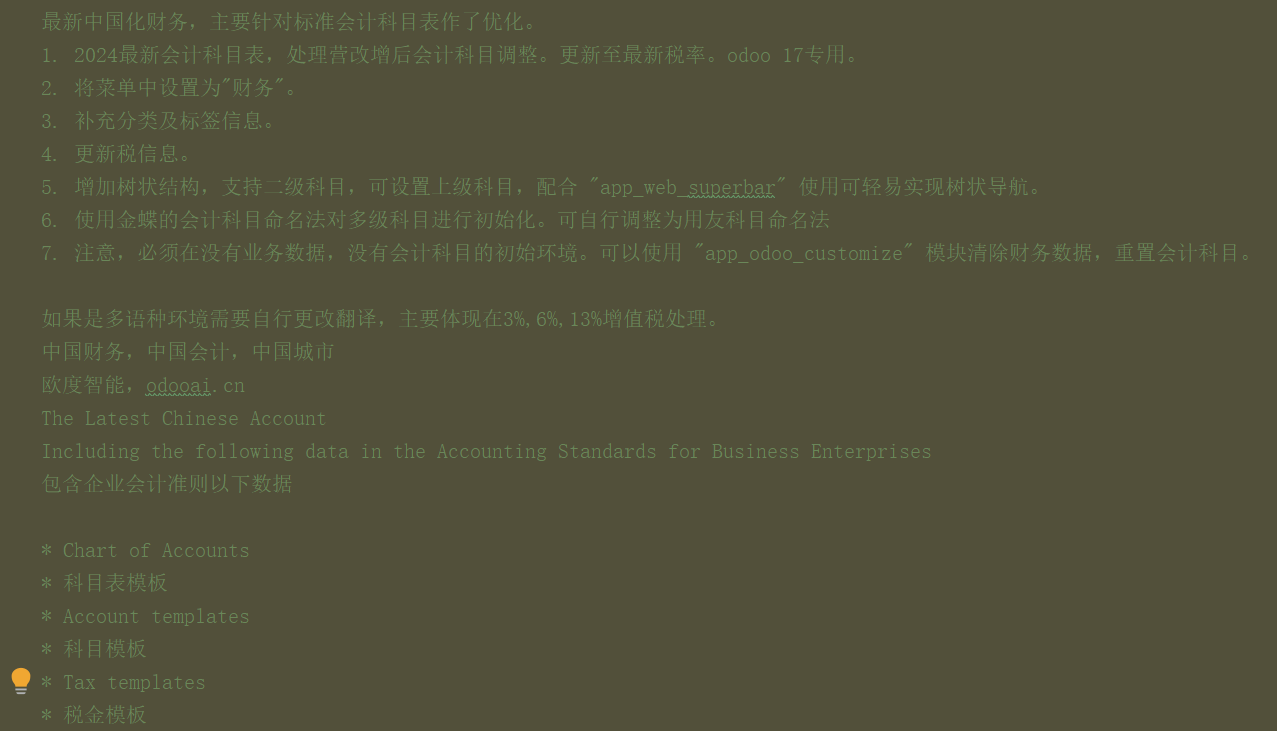
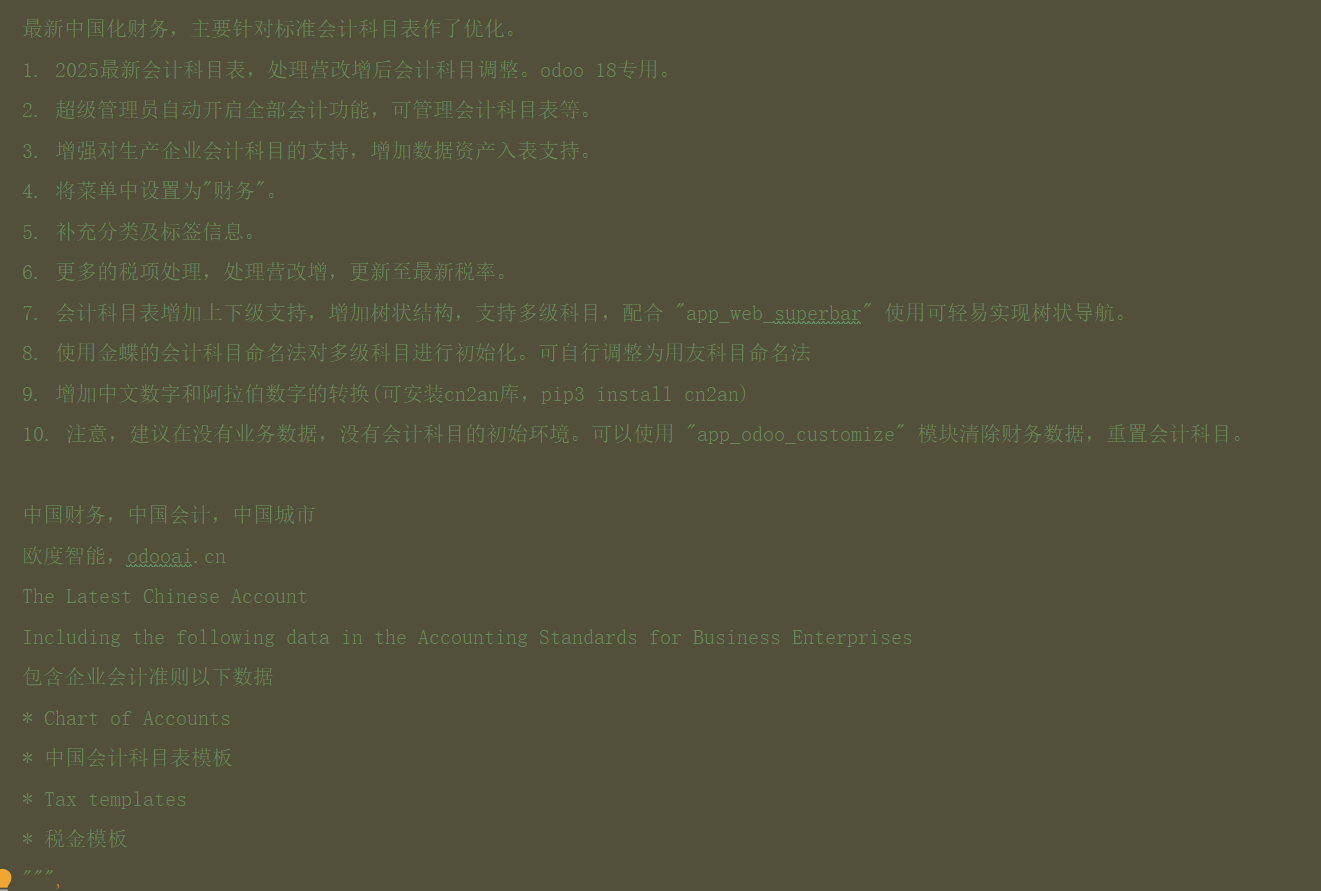
update odoo 18 会计科目

diff --git a/l10n_cn_standard_latest/static/description/index.html b/l10n_cn_standard_latest/static/description/index.html
@@ -1,10 +1,23 @@
+<?xml version="1.0" encoding="utf-8"?>
+<!--
+# -*- coding: utf-8 -*-
+##############################################################################
+# Copyright (C) 2009~2024 odooAi.cn
+##############################################################################
+-->
+<html>
+<!-- begin title-->
+
+<section class="oe_container container o_cc o_cc2">
+    <h2 class="text-center bg-warning text-white pt24 pb24">Latest Chinese Account chart 2025. For Odoo 18</h2>
+    <h4 class="text-center">2025最新中国会计科目表.企业标准会计</h4>
+</section>
+<!-- end title-->
 <section class="oe_container container">
     <div class="oe_row oe_spaced">
         <div class="row">
-            <h2 class="oe_slogan">App Latest Chinese Account chart 2024.</h2>
-            <h3 class="oe_slogan">Set all chinese default value. Like Default country, timezone, currency, partner... </h3>
             <div class="oe_row">
-                <h3>Lastest update: v17.24.11.04</h3>
+                <h3>Lastest update: v18.24.11.04</h3>
                 <div class="row">
                     <img class="oe_demo oe_screenshot img img-fluid" src="banner.png">
                 </div>
@@ -14,7 +27,7 @@
                         <ul class="list-unstyled">
                             <li>
                                 <i class="fa fa-check-square-o text-primary"></i>
-                                The Latest Account Chart for Odoo17.
+                                The Latest Account Chart for Odoo18.
                             </li>
                         </ul>
                     </div>

diff --git a/app_odoo_customize/static/description/index_cn.html b/app_odoo_customize/static/description/index_cn.html
@@ -115,7 +115,7 @@
                         Addons</a>
                 </p>
                 <br>
-                <h3>支持odoo 17,16,15,14,13,12, 11, 10, 9 版本，社区版企业版通用</h3>
+                <h3>支持Odoo 18,17,16,15,14,13,12, 11, 10, 9 版本，社区版企业版通用</h3>
                 <ul class="list-group">
                     <li class='list-group-item'>1. 删除菜单导航页脚的 Odoo 标签</li>
                     <li class='list-group-item'>2. 将弹出窗口中 "Odoo" 设置为自定义名称</li>
@@ -380,7 +380,7 @@
     <div class="oe_demo" style=" margin: 30px auto 0; padding: 0 15px 0 0; border:none; width: 96%;">
         <p>This moduld allows user to quickly customize and debranding Odoo. Quick debug, Language Switcher,
             Online Documentation Access,Quick Data Clear. </p>
-        <p class="mb16">Support Odoo 17,16,15,14,13, 12, 11, 10, 9. Including community and enterprise version. </p>
+        <p class="mb16">Support Odoo 18,17,16,15,14,13, 12, 11, 10, 9. Including community and enterprise version. </p>
     </div>
 </section>
 

diff --git a/app_base_chinese/static/description/index.html b/app_base_chinese/static/description/index.html
@@ -75,7 +75,7 @@
                             </li>
                             <li>
                                 <i class="fa fa-check-square-o text-primary"></i>
-                                22. Support Odoo 17,16,15,14,13,12, Enterprise and Community and odoo.sh Edition.
+                                22. Support Odoo 18,17,16,15,14,13,12, Enterprise and Community and odoo.sh Edition.
                             </li>
                             <li>
                                 <i class="fa fa-check-square-o text-primary"></i>

diff --git a/l10n_cn_standard_latest/__manifest__.py b/l10n_cn_standard_latest/__manifest__.py
@@ -23,26 +23,24 @@
     """,
     'description': """
     最新中国化财务，主要针对标准会计科目表作了优化。
-    1. 2025最新会计科目表，处理营改增后会计科目调整。更新至最新税率。odoo 18专用。
-    2. 将菜单中设置为"财务"。
-    3. 补充分类及标签信息。
-    4. 更新税信息。
-    5. 增加树状结构，支持二级科目，可设置上级科目，配合 "app_web_superbar" 使用可轻易实现树状导航。
-    6. 使用金蝶的会计科目命名法对多级科目进行初始化。可自行调整为用友科目命名法
-    7. 增加中文数字和阿拉伯数字的转换(需安装cn2an库，pip3 install cn2an)
-    8. 注意，必须在没有业务数据，没有会计科目的初始环境。可以使用 "app_odoo_customize" 模块清除财务数据，重置会计科目。
+    1. 2025最新会计科目表，处理营改增后会计科目调整。odoo 18专用。
+    2. 超级管理员自动开启全部会计功能，可管理会计科目表等。
+    3. 增强对生产企业会计科目的支持，增加数据资产入表支持。
+    4. 将菜单中设置为"财务"。
+    5. 补充分类及标签信息。
+    6. 更多的税项处理，处理营改增，更新至最新税率。
+    7. 会计科目表增加上下级支持，增加树状结构，支持多级科目，配合 "app_web_superbar" 使用可轻易实现树状导航。
+    8. 使用金蝶的会计科目命名法对多级科目进行初始化。可自行调整为用友科目命名法
+    9. 增加中文数字和阿拉伯数字的转换(可安装cn2an库，pip3 install cn2an)
+    10. 注意，建议在没有业务数据，没有会计科目的初始环境。可以使用 "app_odoo_customize" 模块清除财务数据，重置会计科目。
 
-    如果是多语种环境需要自行更改翻译，主要体现在1%,3%,6%,13%增值税处理。
     中国财务，中国会计，中国城市
     欧度智能，odooai.cn
     The Latest Chinese Account
     Including the following data in the Accounting Standards for Business Enterprises
     包含企业会计准则以下数据
-
     * Chart of Accounts
-    * 科目表模板
-    * Account templates
-    * 科目模板
+    * 中国会计科目表模板
     * Tax templates
     * 税金模板
     """,
@@ -52,6 +50,7 @@
     ],
     'images': ['static/description/banner.png'],
     'data': [
+        'security/res_groups.xml',
         'views/account_account_views.xml',
         'views/account_views.xml',
         'data/account_account_tag_data.xml',

diff --git a/l10n_cn_standard_latest/models/account_account.py b/l10n_cn_standard_latest/models/account_account.py
@@ -28,16 +28,29 @@ class AccountAccount(models.Model):
     parent_id = fields.Many2one('account.account', 'Parent Chart', index=True, ondelete='cascade')
     child_ids = fields.One2many('account.account', 'parent_id', 'Child Chart')
     parent_path = fields.Char(index=True)
+    # todo: view 类型只用于上级，不可在凭证中选择使用。  odoo 中使用 _compute_account_type 处理是找不到自动设置为 其上级科目
+    # 故暂时不增加此类型
+    # account_type = fields.fields.Selection(selection_add=[
+    #     ('view', 'View Only'),
+    # ])
 
     @api.model
-    def _search_new_account_code(self, company, digits, prefix, cache=None):
+    def _search_new_account_code(self, start_code, cache=None):
         # 分隔符，金蝶为 "."，用友为""，注意odoo中一级科目，现金默认定义是4位头，银行是6位头
-        delimiter = '.'
-        for num in range(1, 100):
-            new_code = str(prefix.ljust(digits - 1, '0')) + delimiter + '%02d' % (num)
-            if new_code in (cache or []):
-                continue
-            rec = self.search([('code', '=', new_code), ('company_id', 'child_of', company.root_id.id)], limit=1)
-            if not rec:
-                return new_code
-        raise UserError(_('Cannot generate an unused account code.'))
+        # 在 odoo18已优化可处理
+        """
+            Examples:
+                |  start_code  |  codes checked for availability                            |
+                +--------------+------------------------------------------------------------+
+                |    102100    |  102101, 102102, 102103, 102104, ...                       |
+                |     1598     |  1599, 1600, 1601, 1602, ...                               |
+                |   10.01.08   |  10.01.09, 10.01.10, 10.01.11, 10.01.12, ...               |
+                |   10.01.97   |  10.01.98, 10.01.99, 10.01.97.copy2, 10.01.97.copy3, ...   |
+                |    1021A     |  1021A, 1022A, 1023A, 1024A, ...                           |
+                |    hello     |  hello.copy, hello.copy2, hello.copy3, hello.copy4, ...    |
+                |     9998     |  9999, 9998.copy, 9998.copy2, 9998.copy3, ...              |
+        """
+        # delimiter = '.'
+        # start_code = start_code + delimiter + '01'
+        res = super()._search_new_account_code(start_code, cache)
+        return res

diff --git a/l10n_cn_standard_latest/models/account_journal.py b/l10n_cn_standard_latest/models/account_journal.py
@@ -8,26 +8,11 @@ class AccountJournal(models.Model):
     _inherit = "account.journal"
 
     @api.model
-    def _prepare_liquidity_account(self, name, company, currency_id, type):
-        digits = 6
-        chart = self.company_id.chart_template_id
-        if chart:
-            digits = int(chart.code_digits)
-        # Seek the next available number for the account code
-        if type == 'bank':
-            account_code_prefix = company.bank_account_code_prefix or ''
-        else:
-            account_code_prefix = company.cash_account_code_prefix or company.bank_account_code_prefix or ''
-        digits = len(account_code_prefix)
-        # 获取上级
-        p_account = self.env['account.account'].search([('code', '=', account_code_prefix), ('company_id', '=', company.id)], limit=1)
-
-        return {
-            'name': name,
-            'currency_id': currency_id or False,
-            'code': self.env['account.account']._search_new_account_code(company, digits, account_code_prefix),
-            'account_type': 'asset_cash',
-            'parent_id': p_account and p_account.id or False,
-            'group_id': p_account and p_account.group_id and p_account.group_id.id or False,
-            'company_id': company.id,
-        }
+    def _prepare_liquidity_account_vals(self, company, code, vals):
+        res = super()._prepare_liquidity_account_vals(company, code, vals)
+        # 分隔符，金蝶为 "."，用友为""，注意odoo中一级科目，现金默认定义是4位头，银行是6位头
+        delimiter = '.'
+        code = code + delimiter + '01'
+        new_code = self.env['account.account']._search_new_account_code(code),
+        res.update({'code': new_code})
+        return res

diff --git a/app_base_chinese/__manifest__.py b/app_base_chinese/__manifest__.py
@@ -50,7 +50,7 @@
     15. 销售团队改为中国
     16. 精简语言的显示，如 Chinese简体中文改为 中文
     21. 多语言支持，多公司支持
-    22. Odoo 17,16,15,14,13,12, 企业版，社区版，在线SaaS.sh版，等全版本支持
+    22. Odoo 18,17,16,15,14,13,12, 企业版，社区版，在线SaaS.sh版，等全版本支持
     23. 代码完全开源
     ======
     1. Chinese address format, applicable to all Chinese customers, suppliers, partners, users, employee information etc.
@@ -69,7 +69,7 @@
     14.Common decimal precision adjustments made.
     15.Sales team changed to [China].
     21. Multi-language Support. Multi-Company Support.
-    22. Support Odoo 17,16,15,14,13,12, Enterprise and Community and odoo.sh Edition.
+    22. Support Odoo 18,17,16,15,14,13,12, Enterprise and Community and odoo.sh Edition.
     23. Full Open Source.
     ''',
     'pre_init_hook': 'pre_init_hook',

diff --git a/l10n_cn_standard_latest/models/template_cn_standard.py b/l10n_cn_standard_latest/models/template_cn_standard.py
@@ -36,7 +36,7 @@ class AccountChartTemplate(models.AbstractModel):
             self.env.company.id: {
                 'account_fiscal_country_id': 'base.cn',
                 'cash_account_code_prefix': '1001',
-                'bank_account_code_prefix': '1002',
+                'bank_account_code_prefix': '1002.01',
                 'transfer_account_code_prefix': '1003',
                 'account_default_pos_receivable_account_id': 'account_1124',
                 'account_sale_tax_id': 'l10n_cn_standard_sale_included_13',
